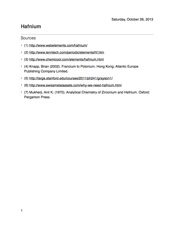
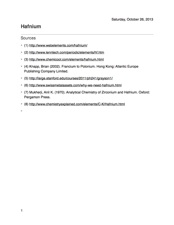
new stuff

Changed region(s): [[0.1149, 0.4356, 0.7184, 0.4978]]

diff --git a/Code/Hafnium.py b/Code/Hafnium.py
@@ -51,7 +51,10 @@ while True:
         canvas = Canvas(master, width = 300, height = 200)
         canvas.pack(expand = YES, fill = BOTH)
 
-        gif1 = PhotoImage(file = '/Volumes/SCHOOL/SCHOOL STUFF/SNC1D/My "Favourite" Element Project/Hafnium/Images/1_Hafnium.gif')
+        if operSys == "m":
+            gif1 = PhotoImage(file = '/Volumes/SCHOOL/SCHOOL STUFF/SNC1D/My "Favourite" Element Project/Hafnium/Code/Images/1_Hafnium.gif')
+        else:
+            gif1 = PhotoImage(file = 'Images/1_Hafnium.gif')
         canvas.create_image(0, 0, anchor=NW, image = gif1)
         if operSys == "m":
             system('''/usr/bin/osascript -e 'tell app "Finder" to set frontmost of process "Python" to true' ''')
@@ -65,14 +68,17 @@ while True:
 
     elif userSelection == 2: #If user types 2
         print("Discovery of Hafnium (1, 2, 3, 4, 6)")
+        print()
         print("Halfnium was discovered in 1923 by Dirk Coster and George Charles von Hevesy")
-        print("in Copenhagen, Denmark. Halfnium comes from the latin name Hafnia, meaning")
-        print("Copenhagen. To discover the 72nd elemt, Coster and von Hevesy analyzed ores")
-        print("such as zirconium with x-ray spectography. Halfnium can be isolated into a")
-        print("pure form from Hafnium Tetraiodide (HfI⁴). The HfI⁴ is decomposed on a tungsten")
-        print("filament, which makes a crystal bar of Hafnium. This is called the crystal")
-        print("bar process. The main reason Hafnium was not discovered until 1923 is because")
-        print("it is extremely difficult to obtain from Zirconium ore.")
+        print("in Copenhagen, Denmark. Halfnium comes from the Latin name Hafnia, meaning")
+        print("Copenhagen. To discover the 72nd element, Coster and von Hevesy analyzed")
+        print("Zirconium ores with x-ray spectography, and they found small amounts of")
+        print("Hafnium. Only 1-3 percent of a Zirconium mineral contains Hafnium. Hafnium")
+        print("can be isolated into a pure form from Hafnium Tetraiodide (HfI⁴). The HfI⁴")
+        print("is decomposed on a tungsten filament, which makes a crystal bar of Hafnium.")
+        print("This is called the crystal bar process. The main reason Hafnium was not")
+        print("discovered until 1923 is because it is extremely difficult to separate from")
+        print("Zirconium ore.")
         cont = input("\nPress Enter to return to the main menu...")
         system(clearScreen) #Clears the screen using method chosen above
         break #Breaks current loop, to go to menu 2.
@@ -89,12 +95,14 @@ while True:
         print("   ・{0:30s} Shiny".format("Lustre:"))
         print("   ・{0:30s} Silver".format("Colour:"))
         print("   ・{0:30s} Brittle".format("Malleability:"))
+        print("   ・{0:30s} Ductile".format("Ductility:"))
         print("   ・{0:30s} 178.49".format("Atomic Weight:"))
         print("   ・{0:30s} 72".format("Protons:"))
         print("   ・{0:30s} 72".format("Electrons:"))
         print("   ・{0:30s} 108".format("Neutrons:"))
         print("  Chemical Properties:")
-        print("   ・{0:30s} Mildly toxic to humans; mild irritation".format("Toxicity:"))
+        print("   ・{0:30s} Very stable. Doesn't react with oxygen.\n                                    Doesn't react with water or acids.".format("Stability:"))
+        print("   ・{0:30s} Not reactive".format("Reactivity:"))
         print("   ・{0:30s} Dust is flammable".format("Flammability:"))
         print("   ・{0:30s} Dust is explosive".format("Explosiveness:"))
         cont = input("\nPress Enter to return to the main menu...")
@@ -104,12 +112,13 @@ while True:
     elif userSelection == 4: #If user types 4
         print("Uses of Hafnium: (1, 4, 5, 6, 7)")
         print()
-        print("Hafnium is a fairly common element, especially considering that it is only")
-        print("used in one thing: nuclear reactor control rods. A control rod controls the")
-        print("rate at which fission takes place inside the nuclear reactor. Without Hafnium,")
-        print("it would not be possible to create nuclear fission; it would all happen too fast")
-        print("and be much to dangerous. Without Hafnium, the world would have to rely upon")
-        print("other forms of power, such as coal, which could potentially create more")
+        print("Hafnium is a fairly common element. It is mainly used in nuclear reactor control")
+        print("rods. A control rod controls the rate at which fission takes place inside the")
+        print("nuclear reactor. Without Hafnium, it would not be possible to create nuclear")
+        print("fission; it would all happen too fast and be much too dangerous. The reasons")
+        print("why Hafnium is great for control rods is that it is very corrosion resistant and ")
+        print("its nucleus can absord extra neutrons. Without Hafnium,  the world would have to")
+        print("rely on other forms of power, such as coal, which could potentially create more")
         print("pollution than nuclear power, which would increase the rate of climate change.")
         print("Put simply, without Hafnium, climate change would happen faster. Hafnium is also")
         print("used in nuclear submarines (submarines powered by nuclear reactors). Lastly,")
@@ -117,33 +126,33 @@ while True:
         print("and computer chips.")
         cont = input("\nPress Enter to continue...")
         system(clearScreen) #Clears the screen using method chosen above
-        print("Uses of Hafnium: (1, 4, 5, 6, 7)")
-        print()
-        print("There are 5 different ways to separate Hafnium from Zirconium, listed below.")
-        print()
-        print(" 1. Liquid-liquid extraction* (using their different levels of solubility")
-        print(" 2. Fractional crystallization and precipitation")
-        print(" 3. Fractional distillation (using their different boiling points)")
-        print(" 4. Ion migration")
-        print(" 5. Electrolisis")
-        print()
-        print("* Chiefly used by industrial operations")
-        cont = input("\nPress Enter to return to the main menu...")
         system(clearScreen) #Clears the screen using method chosen above
         break #Breaks current loop, to go to menu 2.
 
     elif userSelection == 5: #If user types 5
         print("Processing of Hafnium: (1, 2, 3, 4, 6, 7)")
         print()
-        print("Hafnium is never found on it's own; it's always found with Zirconium in minerals")
+        print("Hafnium is never found on its own; it's always found with Zirconium in minerals")
         print("and ores. Hafnium is a contaminant of Zirconium, meaning that it is found with")
-        print("Zirconium and can be separated. The two metals are extracted and processed using")
-        print("solvent extraction, as they both have different sollubilities. The solvent")
-        print("extraction method is quite difficult; it can take up to 3 months to extract the")
-        print("minerals out of a few kilograms of rock, making Hafnium and Zirconium valuable.")
-        print("(Hafnium much more so than Zirconium, due to it being very difficult to obtain).")
+        print("Zirconium and can be separated. The two metals are most commonly extracted")
+        print("and processed using solvent extraction, as they both have different solubilities.")
+        print("The solvent extraction method is quite difficult, taking up to 3 months for the")
+        print("separation process to complete, making Hafnium valuable, despite its natural")
+        print("abundance in the Earth's crust.")
         cont = input("\nPress Enter to return to the main menu...")
         system(clearScreen) #Clears the screen using method chosen above
+        print("Processing of Hafnium: (1, 2, 3, 4, 6, 7)")
+        print()
+        print("There are 5 different ways to separate Hafnium from Zirconium, listed below.")
+        print()
+        print(" 1. Liquid-liquid extraction* (using their different levels of solubility)")
+        print(" 2. Fractional crystallization and precipitation")
+        print(" 3. Fractional distillation (using their different boiling points)")
+        print(" 4. Ion migration")
+        print(" 5. Electrolisis")
+        print()
+        print("* Chiefly used by industrial operations, also known as solvent extraction")
+        cont = input("\nPress Enter to return to the main menu...")
         break #Breaks current loop, to go to menu 2.
 
     elif userSelection == 6: #If user types 6
@@ -165,8 +174,18 @@ while True:
         break #Breaks current loop, to go to menu 2.
 
     elif userSelection == 8: #If user types 8
-        print("This is the contents of selection 8.")
-        cont = input("Press Enter to return to the main menu...")
+        print("Sources used:")
+        print()
+        print("Note: Some entries may not fit on the screen.")
+        print(" (1) http://www.webelements.com/hafnium/")
+        print(" (2) http://www.lenntech.com/periodic/elements/hf.htm")
+        print(" (3) http://www.chemicool.com/elements/hafnium.html")
+        print(" (4) Knapp, Brian (2002). Francium to Polonium. Hong Kong: Atlantic Europe\n     Publishing Company Limited.")
+        print(" (5) http://large.stanford.edu/courses/2011/ph241/grayson1/")
+        print(" (6) http://www.swissmetalassets.com/why-we-need-hafnium.html")
+        print(" (7) Mukherji, Anil K. (1970). Analytical Chemistry of Zirconium and Hafnium.\n     Oxford: Pergamon Press.")
+        print(" (8) http://www.chemistryexplained.com/elements/C-K/Hafnium.html")
+        cont = input("\nPress Enter to return to the main menu...")
         system(clearScreen) #Clears the screen using method chosen above
         break #Breaks current loop, to go to menu 2.
 
@@ -266,7 +285,10 @@ while True:
         canvas = Canvas(master, width = 300, height = 200)
         canvas.pack(expand = YES, fill = BOTH)
 
-        gif1 = PhotoImage(file = '/Volumes/SCHOOL/SCHOOL STUFF/SNC1D/My "Favourite" Element Project/Hafnium/Images/1_Hafnium.gif')
+        if operSys == "m":
+            gif1 = PhotoImage(file = '/Volumes/SCHOOL/SCHOOL STUFF/SNC1D/My "Favourite" Element Project/Hafnium/Code/Images/1_Hafnium.gif')
+        else:
+            gif1 = PhotoImage(file = 'Images/1_Hafnium.gif')
         canvas.create_image(0, 0, anchor=NW, image = gif1)
         if operSys == "m":
             system('''/usr/bin/osascript -e 'tell app "Finder" to set frontmost of process "Python" to true' ''')
@@ -380,8 +402,17 @@ while True:
         break #Breaks current loop, to go to menu 2.
 
     elif userSelection == 8: #If user types 8
-        print("This is the contents of selection 8.")
-        cont = input("Press Enter to return to the main menu...")
+        print("Sources used:")
+        print()
+        print("Note: Some entries may not fit on the screen.")
+        print(" (1) http://www.webelements.com/hafnium/")
+        print(" (2) http://www.lenntech.com/periodic/elements/hf.htm")
+        print(" (3) http://www.chemicool.com/elements/hafnium.html")
+        print(" (4) Knapp, Brian (2002). Francium to Polonium. Hong Kong: Atlantic Europe\n     Publishing Company Limited.")
+        print(" (5) http://large.stanford.edu/courses/2011/ph241/grayson1/")
+        print(" (6) http://www.swissmetalassets.com/why-we-need-hafnium.html")
+        print(" (7) Mukherji, Anil K. (1970). Analytical Chemistry of Zirconium and Hafnium.\n     Oxford: Pergamon Press.")
+        cont = input("\nPress Enter to return to the main menu...")
         system(clearScreen) #Clears the screen using method chosen above
         break #Breaks current loop, to go to menu 2.
 
@@ -391,5 +422,5 @@ while True:
         system(clearScreen) #Clears the screen using the method chosen above
         quit() #Quits the program, clearing memory and threads (yay modern memory management!)
     else:
-        print("Please enter a valid number (1-9)")
+        print("Please enter a valid number (1-9).")
         wait(2)
